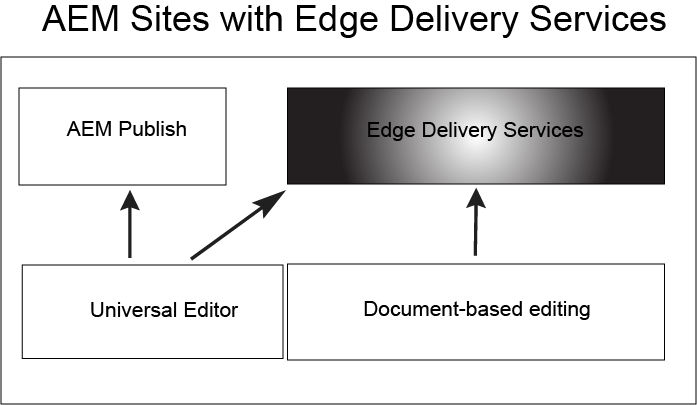
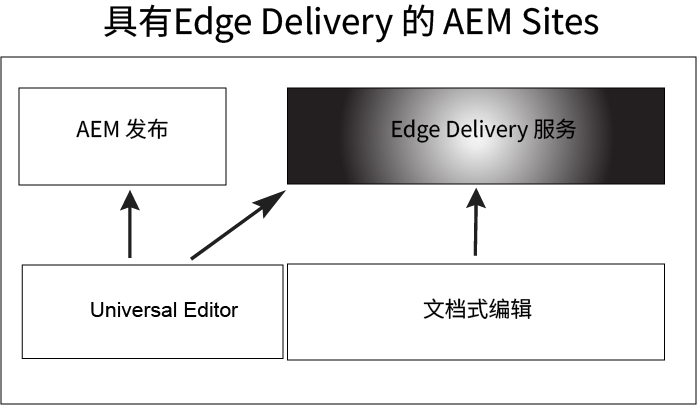
Updated by task 'AUTO_HANDOFF_PRIORITY_1702638813251'  Changes for core/source commit https://git.corp.adobe.com/AdobeDocs/experience-manager-cloud-service.en/commit/0d03e3794acc6e08487a9bc3c0f09f11432e2157

diff --git a/help/edge/using.md b/help/edge/using.md
@@ -1,52 +1,52 @@
 ---
 title: 使用 Edge Delivery Services
-description: 了解如何将AEMas a Cloud Service与Edge Delivery Services一起使用。
+description: 了解如何将 AEM as a Cloud Service 与 Edge Delivery Services 结合使用。
 feature: Edge Delivery Services
 exl-id: 41999302-b4c9-4f5a-b659-6e7398a3c4f4
 source-git-commit: 5b24b984ea738096ef67b72a3d96e9b5931d2200
-workflow-type: tm+mt
+workflow-type: ht
 source-wordcount: '385'
-ht-degree: 15%
+ht-degree: 100%
 
 ---
 
 
 # 使用 Edge Delivery Services {#usingedge}
 
-借助Edge Delivery Services，您可以创建快速开发环境，以便作者能够快速更新和发布内容，并快速启动新站点。 为此，您可以在同一网站上使用多个内容源，无论您选择的源如何，都可以轻松进行无缝发布。因此，从在 Internet 上实时编辑内容到查看内容只需几秒钟。
+利用 Edge Delivery Services，您可以创建快速开发环境，作者可在其中快速地更新和发布内容，并快速地推出新网站。为此，您可以在同一网站上使用多个内容源，无论您选择的源如何，都可以轻松进行无缝发布。因此，从在 Internet 上实时编辑内容到查看内容只需几秒钟。
 
-Edge Delivery Services与内容源分离，可以从不同的内容源摄取内容。
+Edge Delivery Services 与内容源分离，并可从不同的内容源摄取内容。
 
-![Edge投放的内容源](assets/content-sources.png)
+![Edge Delivery 的内容源](assets/content-sources.png)
 
-从多个内容源摄取为用户提供了最大的灵活性。 Adobe提供了指南，可帮助您选择最适合您的项目的内容源。
+通过从多个内容源摄取，用户将获得最大的灵活性。Adobe 提供指导以帮助您选择哪些内容源最适合您的项目。
 
-在某些情况下，内容源是预定义的，或者不是灵活的(例如，项目不能使用Sharepoint或Google Drive)。 但在许多情况下，该工具并非预先设定，且工具的选择也并非非黑即白。
+某些情况下预定义了内容源或其存在其他方式的不灵活（例如，项目无法使用 Sharepoint 或 Google Drive）。但在很多情况下并不预定义工具，并且工具的选择也不是非黑即白。
 
-Adobe的指导原则是简单化。 从基于文档的创作开始，根据需要增加复杂性。 如果需要更改工具，AEMEdge Delivery Services集成涵盖内容迁移。
+Adobe 的指导原则是简洁。首先基于文档进行创作，当需要时再增加复杂性。如果需要更改工具，AEM 的 Edge Delivery Services 集成涵盖内容迁移。
 
 ![内容源灵活性](assets/content-source-flexiblity.png)
 
 ## 创作 {#authoring-edge}
 
-使用Edge Delivery Services，创作变得简单、快速和灵活。 您可以选择在AEM中通过通用编辑器使用基于文档的创作或创作。
+Edge Delivery Services 让创作变得简单、快速且灵活。您可以选择使用基于文档的创作进行创作，或在 AEM 中用 Universal Editor 进行创作。
 
-请参阅文档 [为Edge Delivery Services创作内容](authoring.md) 以了解更多信息。
+有关更多信息，请参阅文档[为 Edge Delivery Services 创作内容](authoring.md)。
 
 ## 发布 {#publishing-edge}
 
-使用Edge Delivery Services，无论内容来源如何，都可以无缝发布内容。
+利用 Edge Delivery Services，无论内容源如何，都可以无缝发布内容。
 
-请参阅文档 [发布Edge Delivery Services内容](publishing.md) 以了解更多信息。
+有关更多信息，请参阅文档[为 Edge Delivery Services 发布内容](publishing.md)。
 
 ## 开发 {#developing-edge}
 
-Edge Delivery Services基于块的概念。 AEM附带了一个完整的预定义块库，可以扩展该库以满足您的项目需求。 Edge Delivery Services项目的代码在GitHub中进行管理。
+Edge Delivery Services 基于块的概念。AEM 附带一个全面的预定义的块库，可扩展它以满足您的项目需求。在 GitHub 中管理 Edge Delivery Services 项目的代码。
 
-请参阅文档 [针对Edge Delivery Services开发](developing.md) 以了解更多信息。
+有关更多信息，请参阅文档[针对 Edge Delivery Services 进行开发](developing.md)。
 
-## 现有AEM项目 {#existing-projects}
+## 现有 AEM 项目 {#existing-projects}
 
-您无需等待新的AEM项目即可从Edge Delivery Services中受益。 Edge Delivery Services可以集成到您现有的AEM项目中，以便您能够立即利用其性能提升。
+您无需等待创建新 AEM 项目即可从 Edge Delivery Services 受益。可将 Edge Delivery Services 集成到您现有的 AEM 项目中，以使您可立即利用其性能提升。
 
-请参阅文档 [将Edge Delivery Services用于现有AEM项目](existing-projects.md) 以了解更多信息。
+有关更多信息，请参阅文档[在现有 AEM 项目中使用 Edge Delivery Services](existing-projects.md)。

diff --git a/help/release-notes/home.md b/help/release-notes/home.md
@@ -3,9 +3,9 @@ title: Adobe Experience Manager (AEM) as a Cloud Service 的发行说明。
 description: Adobe Experience Manager (AEM) as a Cloud Service 的发行说明。
 exl-id: 05b9e51f-467e-4c8e-baea-b1cf832597cd
 source-git-commit: 626f38141bafba8f5463c8793d52ea15448ed433
-workflow-type: tm+mt
+workflow-type: ht
 source-wordcount: '599'
-ht-degree: 99%
+ht-degree: 100%
 
 ---
 
